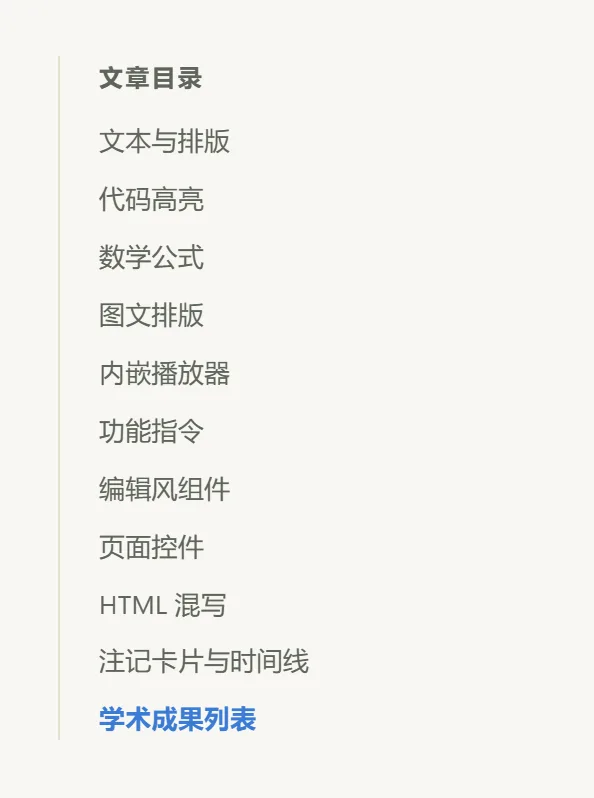
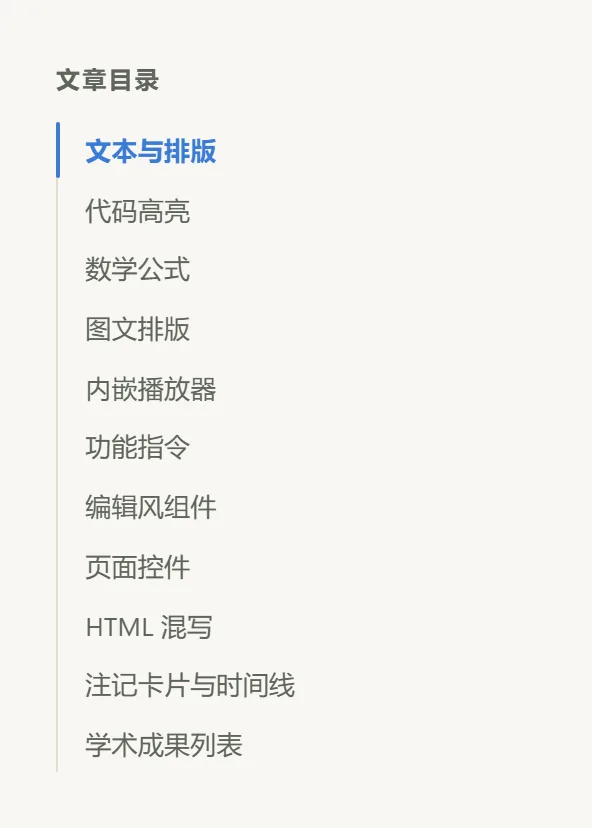
style(toc): modernize side navigation with vertical track indicator and clean link states

diff --git a/tests/toc-client.test.ts b/tests/toc-client.test.ts
@@ -156,6 +156,59 @@ describe('toc & reading-progress client behavior', () => {
       });
     });
   });
+
+  it('ScrollSpy 同步更新 .toc-marker 的 translateY 与高度', () => {
+    document.body.innerHTML = `
+      <nav class="toc">
+        <div class="toc-track">
+          <div class="toc-marker"></div>
+          <ol class="toc-list">
+            <li class="toc-item"><a class="toc-link" href="#heading-1">Heading 1</a></li>
+            <li class="toc-item"><a class="toc-link" href="#heading-2">Heading 2</a></li>
+          </ol>
+        </div>
+      </nav>
+      <main class="site-main">
+        <div class="page-content">
+          <h2 id="heading-1">Heading 1</h2>
+          <h2 id="heading-2">Heading 2</h2>
+        </div>
+      </main>
+    `;
+
+    const track = document.querySelector<HTMLElement>('.toc-track')!;
+    const marker = document.querySelector<HTMLElement>('.toc-marker')!;
+    const link1 = document.querySelector<HTMLAnchorElement>('a[href="#heading-1"]')!;
+    const link2 = document.querySelector<HTMLAnchorElement>('a[href="#heading-2"]')!;
+    const h1 = document.querySelector<HTMLElement>('#heading-1')!;
+    const h2 = document.querySelector<HTMLElement>('#heading-2')!;
+
+    track.getBoundingClientRect = () => ({ top: 100, bottom: 200, height: 100, width: 200, left: 0, right: 200, x: 0, y: 100, toJSON: () => {} });
+    link1.getBoundingClientRect = () => ({ top: 100, bottom: 130, height: 30, width: 200, left: 0, right: 200, x: 0, y: 100, toJSON: () => {} });
+    link2.getBoundingClientRect = () => ({ top: 135, bottom: 165, height: 30, width: 200, left: 0, right: 200, x: 0, y: 135, toJSON: () => {} });
+
+    h1.getBoundingClientRect = () => ({ top: 50, bottom: 80, height: 30, width: 500, left: 0, right: 500, x: 0, y: 50, toJSON: () => {} });
+    h2.getBoundingClientRect = () => ({ top: 500, bottom: 530, height: 30, width: 500, left: 0, right: 500, x: 0, y: 500, toJSON: () => {} });
+
+    initToc();
+    expect(marker.style.opacity).toBe('1');
+    expect(marker.style.transform).toBe('translateY(0px)');
+    expect(marker.style.height).toBe('30px');
+
+    // Scroll to heading 2
+    h1.getBoundingClientRect = () => ({ top: -200, bottom: -170, height: 30, width: 500, left: 0, right: 500, x: 0, y: -200, toJSON: () => {} });
+    h2.getBoundingClientRect = () => ({ top: 50, bottom: 80, height: 30, width: 500, left: 0, right: 500, x: 0, y: 50, toJSON: () => {} });
+
+    window.dispatchEvent(new Event('scroll'));
+
+    return new Promise<void>((resolve) => {
+      requestAnimationFrame(() => {
+        expect(marker.style.transform).toBe('translateY(35px)');
+        expect(marker.style.height).toBe('30px');
+        resolve();
+      });
+    });
+  });
 });
 
 describe('mobile collapsible toc animation', () => {

diff --git a/src/scripts/toc.ts b/src/scripts/toc.ts
@@ -15,6 +15,36 @@ function prefersReducedMotion(): boolean {
   return typeof window !== 'undefined' && window.matchMedia?.('(prefers-reduced-motion: reduce)')?.matches === true;
 }
 
+function updateTocMarkers(activeLink: HTMLAnchorElement | null): void {
+  const markers = document.querySelectorAll<HTMLElement>('.toc-marker');
+  if (!markers.length) return;
+
+  if (!activeLink) {
+    markers.forEach((m) => {
+      m.style.opacity = '0';
+    });
+    return;
+  }
+
+  const activeHref = activeLink.getAttribute('href');
+
+  markers.forEach((marker) => {
+    const track = marker.closest<HTMLElement>('.toc-track');
+    if (!track) return;
+    const targetLink = activeHref ? track.querySelector<HTMLAnchorElement>(`a[href="${activeHref}"]`) : null;
+    if (targetLink) {
+      const linkRect = targetLink.getBoundingClientRect();
+      const trackRect = track.getBoundingClientRect();
+      const topOffset = linkRect.top - trackRect.top;
+      marker.style.transform = `translateY(${topOffset}px)`;
+      marker.style.height = `${linkRect.height}px`;
+      marker.style.opacity = '1';
+    } else {
+      marker.style.opacity = '0';
+    }
+  });
+}
+
 function updateProgressAndSpy(): void {
   // 1. Reading progress bar
   if (currentProgressBar && currentArticle) {
@@ -54,13 +84,25 @@ function updateProgressAndSpy(): void {
 
     if (activeHeading) {
       const activeId = activeHeading.id;
+      let activeLink: HTMLAnchorElement | null = null;
       currentTocLinks.forEach((link) => {
         const href = link.getAttribute('href');
         const isCurrent = href === `#${activeId}`;
         link.classList.toggle('active', isCurrent);
-        if (isCurrent) link.setAttribute('aria-current', 'true');
-        else link.removeAttribute('aria-current');
+        if (isCurrent) {
+          link.setAttribute('aria-current', 'true');
+          if (!activeLink) activeLink = link;
+        } else {
+          link.removeAttribute('aria-current');
+        }
       });
+      updateTocMarkers(activeLink);
+    } else {
+      currentTocLinks.forEach((link) => {
+        link.classList.remove('active');
+        link.removeAttribute('aria-current');
+      });
+      updateTocMarkers(null);
     }
   }
 }
@@ -231,6 +273,11 @@ export function _resetTocStateForTesting(): void {
   currentTocLinks = [];
   currentHeadings = [];
   ticking = false;
+  document.querySelectorAll<HTMLElement>('.toc-marker').forEach((m) => {
+    m.style.transform = '';
+    m.style.height = '';
+    m.style.opacity = '';
+  });
   document.querySelectorAll<HTMLDetailsElement>('.toc-collapsible').forEach((el) => {
     delete el.dataset.tocCollapsibleInit;
     el.classList.remove('is-opening', 'is-closing');

diff --git a/src/styles/global.css b/src/styles/global.css
@@ -3301,8 +3301,8 @@ html.js .reveal.revealed {
     top: 2rem;
     max-height: calc(100vh - 4rem);
     overflow-y: auto;
-    padding-left: 1.25rem;
-    border-left: 1px solid var(--border);
+    padding-left: 0;
+    border-left: none;
   }
   .article-layout .toc-collapsible {
     display: none;
@@ -3369,12 +3369,37 @@ html.js .reveal.revealed {
   }
 }
 .toc-title {
-  margin: 0 0 0.65rem;
+  margin: 0 0 0.75rem;
   font-size: 0.76rem;
   font-weight: 750;
   letter-spacing: 0.08em;
   text-transform: uppercase;
   color: var(--text-muted);
+}
+.toc-track {
+  position: relative;
+  border-left: 1px solid var(--border);
+}
+.toc-marker {
+  position: absolute;
+  left: -1px;
+  top: 0;
+  width: 2px;
+  height: 0;
+  border-radius: 1px;
+  background-color: var(--accent);
+  opacity: 0;
+  pointer-events: none;
+  transition:
+    transform 0.22s cubic-bezier(0.2, 0.8, 0.2, 1),
+    height 0.22s cubic-bezier(0.2, 0.8, 0.2, 1),
+    opacity 0.15s ease;
+  z-index: 1;
+}
+@media (prefers-reduced-motion: reduce) {
+  .toc-marker {
+    transition: none;
+  }
 }
 .toc-list {
   margin: 0;
@@ -3382,34 +3407,39 @@ html.js .reveal.revealed {
   list-style: none;
   display: flex;
   flex-direction: column;
-  gap: 0.4rem;
+  gap: 0.15rem;
 }
 .toc-item {
   font-size: 0.82rem;
-  line-height: 1.35;
+  line-height: 1.4;
 }
-.toc-depth-3 {
-  padding-left: 0.85rem;
+.toc-depth-3 .toc-link {
+  padding-left: 1.5rem;
   font-size: 0.78rem;
 }
-.toc-depth-4 {
-  padding-left: 1.5rem;
+.toc-depth-4 .toc-link {
+  padding-left: 2.15rem;
   font-size: 0.74rem;
 }
 .toc-link {
   color: var(--text-muted);
-  text-decoration: none;
+  text-decoration: none !important;
+  text-decoration-color: transparent !important;
   display: block;
-  padding: 0.15rem 0;
-  transition: color 0.15s ease;
+  padding: 0.28rem 0.5rem 0.28rem 0.85rem;
+  transition: color 0.18s ease;
 }
 .toc-link:hover,
 .toc-link:focus-visible {
-  color: var(--accent);
+  color: var(--text);
+  text-decoration: none !important;
+  text-decoration-color: transparent !important;
+  outline: none;
 }
 .toc-link.active {
   color: var(--accent);
-  font-weight: 700;
+  font-weight: 600;
+  text-decoration: none !important;
 }
 
 /* ==========================================================================

diff --git a/src/lib/toc.ts b/src/lib/toc.ts
@@ -118,8 +118,11 @@ export function renderTocHtml(items: TocItem[], options: { title?: string; lang?
   <div class="toc-header">
     <p class="toc-title">${escapeHtml(title)}</p>
   </div>
-  <ol class="toc-list">
+  <div class="toc-track">
+    <div class="toc-marker" aria-hidden="true"></div>
+    <ol class="toc-list">
 ${listItems}
-  </ol>
+    </ol>
+  </div>
 </nav>`;
 }
